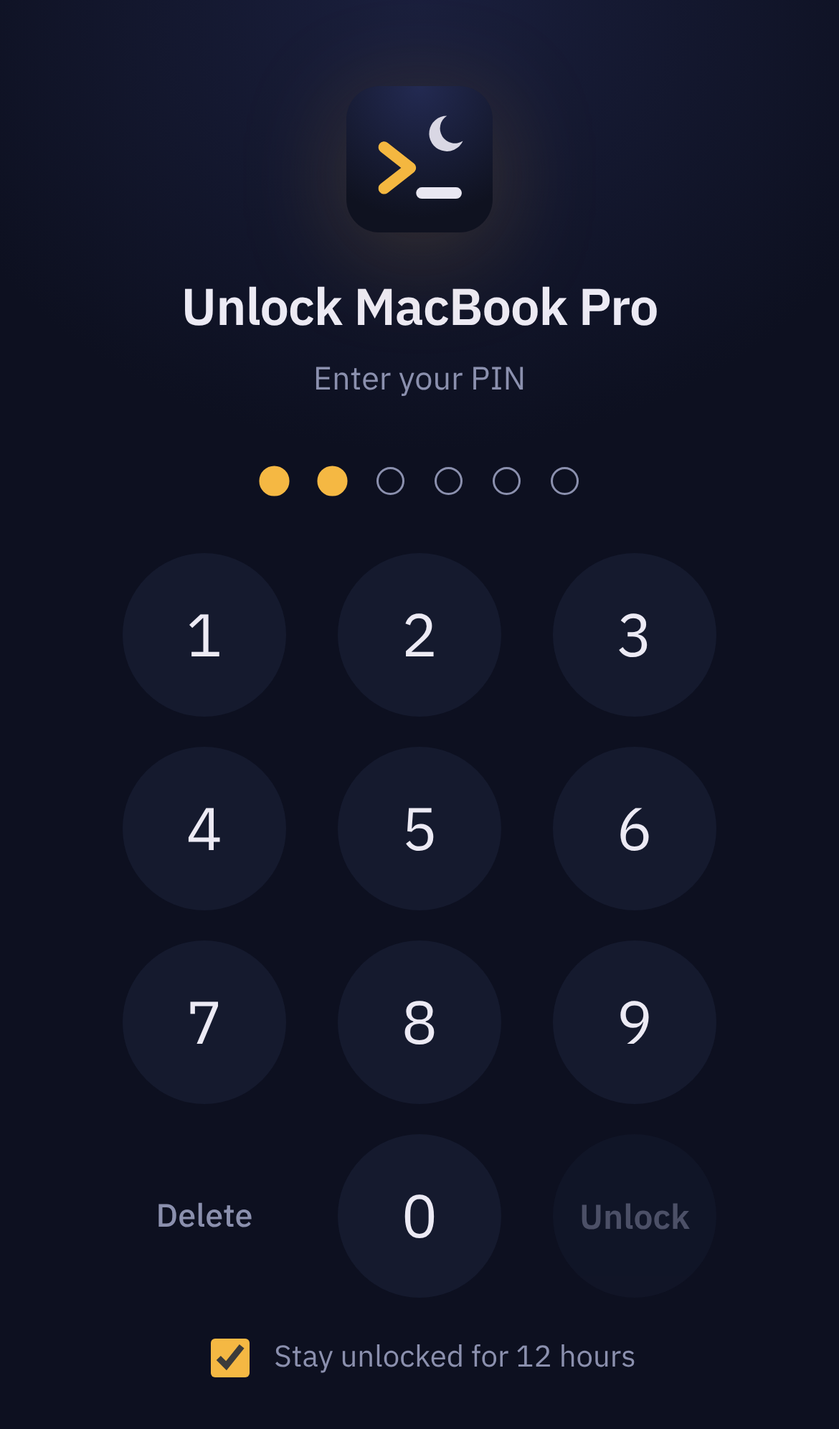
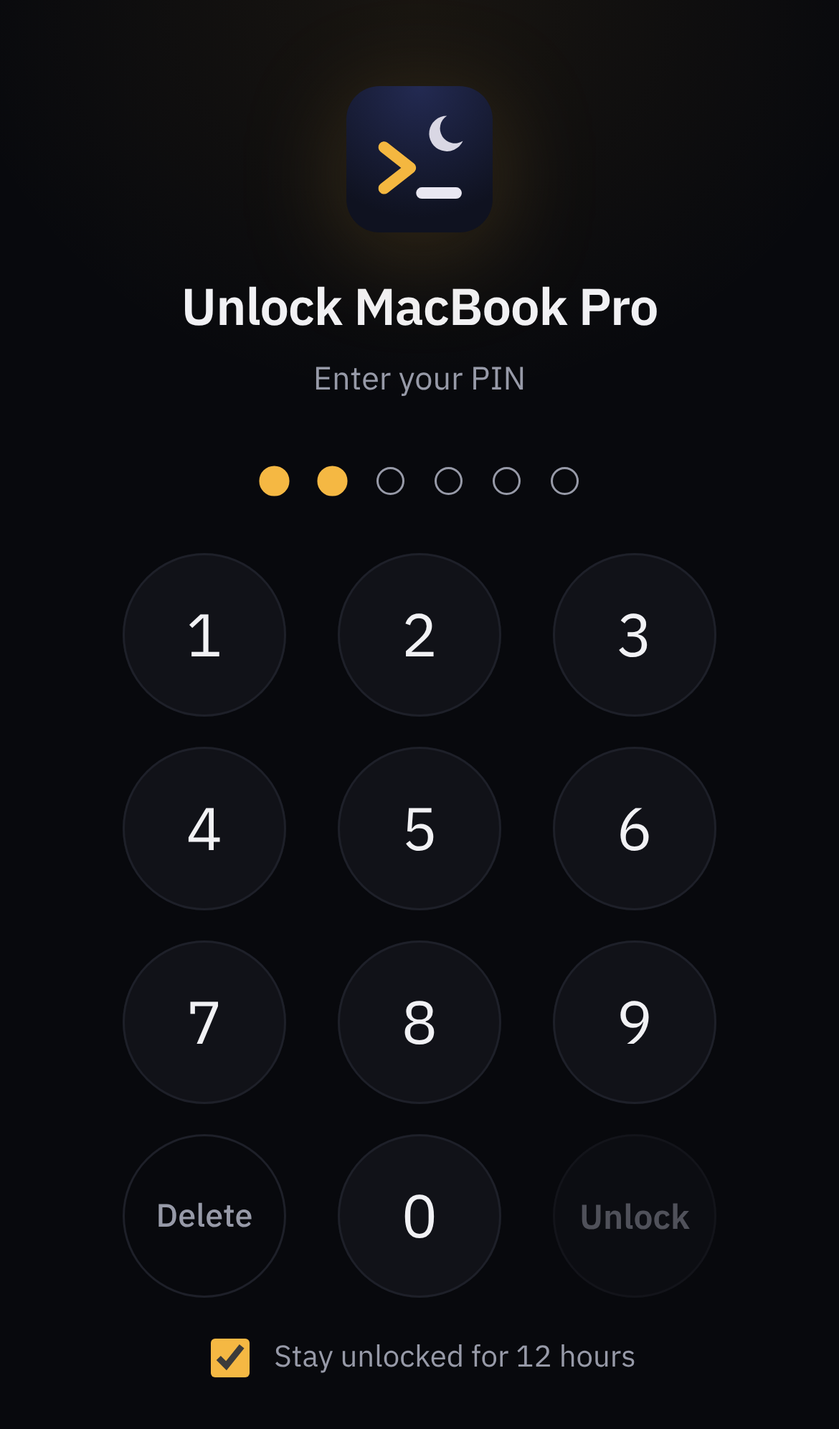
v6.1: trading-terminal look

Changed region(s): [[0.0, 0.0, 1.0, 0.249]]

diff --git a/docs/css/app.css b/docs/css/app.css
@@ -8,19 +8,20 @@
 @font-face { font-family: 'JB Mono'; src: url('../fonts/jetbrains-mono-latin-700-normal.woff2') format('woff2'); font-weight: 700; font-display: swap; }
 
 :root {
-  --night: #0D1020;      /* app */
-  --well: #080A14;       /* terminal */
-  --raised: #151A2E;     /* menus, cards */
-  --raised-2: #1C2238;   /* pressed, inputs on cards */
-  --line: #232842;
-  --text: #ECEAF4;       /* moonlight */
-  --muted: #8B90AE;      /* dusk */
-  --faint: #5C6185;
-  --lamp: #F5B843;       /* awake */
-  --lamp-ink: #2A1E03;
-  --lamp-glow: rgba(245, 184, 67, .22);
-  --mint: #58D6A4;
-  --coral: #FF7B7B;
+  --night: #08090D;      /* canvas */
+  --well: #0C0D12;       /* terminal panel */
+  --raised: #111218;     /* cards, menus */
+  --raised-2: #181A21;   /* pressed, inputs */
+  --line: #1E2029;       /* hairline */
+  --line-strong: #2A2D38;
+  --text: #F1F1F4;
+  --muted: #979AA8;
+  --faint: #5D6070;
+  --lamp: #F5B843;       /* awake: the app's one warm colour */
+  --lamp-ink: #241A03;
+  --lamp-glow: rgba(245, 184, 67, .18);
+  --mint: #3DD68C;       /* up / ok */
+  --coral: #FF5C5C;      /* down / failed */
   --sans: 'Plex', -apple-system, BlinkMacSystemFont, 'Segoe UI', sans-serif;
   --mono: 'JB Mono', ui-monospace, 'SF Mono', Menlo, Consolas, monospace;
   --safe-b: env(safe-area-inset-bottom);
@@ -37,7 +38,7 @@ code { font-family: var(--mono); font-size: .9em; }
 /* ---------- buttons and inputs ---------- */
 .btn { border-radius: 12px; padding: 11px 16px; font-weight: 600; font-size: 15px; background: var(--lamp); color: var(--lamp-ink); transition: transform .08s, filter .15s; }
 .btn:active { transform: scale(.97); filter: brightness(.95); }
-.btn.ghost { background: var(--raised-2); color: var(--text); font-weight: 500; }
+.btn.ghost { background: var(--raised-2); color: var(--text); font-weight: 500; box-shadow: inset 0 0 0 1px var(--line-strong); }
 .btn.small { padding: 7px 13px; font-size: 14px; border-radius: 10px; }
 .btn.danger { background: rgba(255, 123, 123, .14); color: var(--coral); }
 .btn:disabled { opacity: .5; }
@@ -51,7 +52,7 @@ select.field-in { appearance: none; -webkit-appearance: none; }
 
 /* ---------- gates: welcome, pair, unlock ---------- */
 .gate { position: fixed; inset: 0; overflow-y: auto; padding: calc(32px + env(safe-area-inset-top)) 24px calc(24px + var(--safe-b));
-  background: radial-gradient(90% 45% at 50% 0%, #1A1F3D 0%, var(--night) 70%); }
+  background: radial-gradient(80% 40% at 50% 0%, rgba(245, 184, 67, .07) 0%, transparent 70%), var(--night); }
 .gate-inner { max-width: 380px; margin: 0 auto; min-height: 100%; display: flex; flex-direction: column; align-items: center; text-align: center; }
 .mark { width: 68px; height: 68px; margin: 8px 0 20px; filter: drop-shadow(0 8px 24px rgba(245, 184, 67, .18)); }
 .gate h1 { font: 600 24px/1.2 var(--sans); margin: 0 0 8px; letter-spacing: -.015em; }
@@ -65,7 +66,7 @@ select.field-in { appearance: none; -webkit-appearance: none; }
 .dots.shake { animation: shake .32s; }
 @keyframes shake { 25% { transform: translateX(-8px); } 50% { transform: translateX(8px); } 75% { transform: translateX(-4px); } }
 .pad { display: grid; grid-template-columns: repeat(3, 76px); gap: 14px 24px; justify-content: center; }
-.pad button { width: 76px; height: 76px; border-radius: 50%; background: var(--raised); font: 400 28px var(--sans); transition: background .1s; }
+.pad button { width: 76px; height: 76px; border-radius: 50%; background: var(--raised); box-shadow: inset 0 0 0 1px var(--line); font: 400 28px var(--sans); transition: background .1s; }
 .pad button:active { background: var(--raised-2); }
 .pad button.fn { background: none; font: 500 15px var(--sans); color: var(--muted); }
 .pad button.go { background: var(--lamp); color: var(--lamp-ink); font: 600 16px var(--sans); }
@@ -85,15 +86,18 @@ select.field-in { appearance: none; -webkit-appearance: none; }
 .iosnote .row2 .btn { flex: 1; }
 .join { margin: 30px 0 8px; display: flex; flex-direction: column; align-items: center; gap: 10px; }
 .join small { color: var(--muted); font-size: 13px; }
-.jcode { font: 600 42px/1 var(--mono); letter-spacing: .05em; color: var(--lamp); padding: 20px 28px; border-radius: 20px; background: var(--raised); box-shadow: 0 0 0 1px var(--line), 0 16px 40px rgba(245, 184, 67, .08); }
+.jcode { font: 600 42px/1 var(--mono); letter-spacing: .05em; color: var(--lamp); padding: 20px 28px; border-radius: 16px; background: var(--raised); box-shadow: 0 0 0 1px var(--line-strong), 0 16px 40px rgba(245, 184, 67, .07); }
 .wait { display: flex; gap: 6px; margin-top: 12px; }
 .wait span, .thinking span { width: 7px; height: 7px; border-radius: 50%; background: var(--muted); animation: blink 1s infinite ease-in-out; }
 .wait span:nth-child(2), .thinking span:nth-child(2) { animation-delay: .15s; } .wait span:nth-child(3), .thinking span:nth-child(3) { animation-delay: .3s; }
 @keyframes blink { 50% { opacity: .2; transform: translateY(-3px); } }
 
 /* ---------- the app ---------- */
-#app { position: fixed; left: 0; right: 0; top: 0; height: 100%; display: flex; flex-direction: column; padding-top: env(safe-area-inset-top); background: var(--well); }
-.bar { flex: none; display: flex; align-items: center; gap: 10px; padding: 8px 8px 8px 16px; background: var(--night); }
+#app { position: fixed; left: 0; right: 0; top: 0; height: 100%; display: flex; flex-direction: column; padding-top: env(safe-area-inset-top); background: var(--night); }
+.bar { flex: none; display: flex; align-items: center; gap: 10px; padding: 8px 6px 8px 16px; }
+.ticks { display: flex; gap: 6px; flex: none; }
+.tick { font: 500 12px/1 var(--mono); padding: 6px 7px; border-radius: 7px; background: var(--raised); box-shadow: inset 0 0 0 1px var(--line); color: var(--muted); font-variant-numeric: tabular-nums; }
+.tick.good { color: var(--mint); } .tick.ok { color: var(--lamp); } .tick.slow { color: var(--coral); }
 .presence { position: relative; width: 10px; height: 10px; flex: none; }
 .presence i { position: absolute; inset: 0; border-radius: 50%; background: var(--faint); transition: background .3s, box-shadow .3s; }
 .presence.awake i { background: var(--lamp); box-shadow: 0 0 0 4px var(--lamp-glow), 0 0 14px var(--lamp); }
@@ -104,7 +108,7 @@ select.field-in { appearance: none; -webkit-appearance: none; }
 .who { flex: 1; min-width: 0; display: flex; flex-direction: column; }
 .who b { font: 600 16px/1.2 var(--sans); white-space: nowrap; overflow: hidden; text-overflow: ellipsis; letter-spacing: -.01em; }
 .who span { color: var(--muted); font-size: 13px; white-space: nowrap; overflow: hidden; text-overflow: ellipsis; font-variant-numeric: tabular-nums; }
-.batt { flex: none; font: 500 13px var(--sans); color: var(--muted); font-variant-numeric: tabular-nums; padding: 0 4px; }
+
 .batt.low { color: var(--coral); }
 .batt.charging { color: var(--lamp); }
 .iconbtn { position: relative; width: 40px; height: 40px; border-radius: 12px; display: grid; place-items: center; flex: none; }
@@ -114,21 +118,21 @@ select.field-in { appearance: none; -webkit-appearance: none; }
 .badge { position: absolute; top: 3px; right: 2px; min-width: 17px; height: 17px; padding: 0 5px; border-radius: 9px; background: var(--lamp); color: var(--lamp-ink); font: 600 11px/17px var(--sans); }
 .badge:empty { display: none; }
 
-/* the lamp line */
-.lamp { flex: none; position: relative; height: 2px; background: var(--line); }
+/* the lamp line: the top edge of the terminal panel */
+.lamp { position: absolute; left: 0; right: 0; top: 0; height: 2px; background: var(--line-strong); z-index: 3; }
 .lamp i { position: absolute; left: 0; top: 0; bottom: 0; width: 100%; transform-origin: left; transform: scaleX(0); background: var(--lamp); transition: transform .9s linear, opacity .3s; }
-.lamp::after { content: ''; position: absolute; left: 0; right: 0; top: 2px; height: 28px; background: linear-gradient(var(--lamp-glow), transparent); opacity: 0; transition: opacity .6s; pointer-events: none; z-index: 2; }
+.lamp::after { content: ''; position: absolute; left: 0; right: 0; top: 2px; height: 34px; background: linear-gradient(var(--lamp-glow), transparent); opacity: 0; transition: opacity .6s; pointer-events: none; z-index: 2; }
 #app.awake .lamp::after { opacity: 1; }
 #app.asleep .lamp i { background: var(--muted); }
 #app.connecting .lamp i { animation: scan 1.4s ease-in-out infinite; transform: scaleX(.3); transition: none; }
 @keyframes scan { 0% { left: -30%; } 100% { left: 100%; } }
 
-#term { flex: 1; min-height: 0; overflow: hidden; padding: 10px 6px 0 12px; position: relative; background: var(--well); touch-action: none; }
+#term { flex: 1; min-height: 0; overflow: hidden; margin: 0 8px; padding: 14px 6px 0 12px; position: relative; background: var(--well); border-radius: 14px; box-shadow: inset 0 0 0 1px var(--line); touch-action: none; }
 #term .xterm-viewport { background: transparent !important; }
 
 /* state strip at the top of the terminal: asleep / waiting / offline */
-.card-state { position: absolute; left: 8px; right: 8px; top: 8px; z-index: 5; padding: 12px 12px 12px 14px; border-radius: 16px;
-  background: rgba(21, 26, 46, .97); box-shadow: 0 0 0 1px var(--line), 0 14px 34px rgba(0, 0, 0, .45); }
+.card-state { position: absolute; left: 8px; right: 8px; top: 10px; z-index: 5; padding: 12px 12px 12px 14px; border-radius: 12px;
+  background: rgba(17, 18, 24, .97); box-shadow: 0 0 0 1px var(--line-strong), 0 14px 34px rgba(0, 0, 0, .55); }
 .card-state h2 { margin: 0; font: 600 15px/1.3 var(--sans); }
 .card-state p { margin: 2px 0 0; color: var(--muted); font-size: 13px; }
 .card-state form { display: flex; gap: 8px; margin-top: 10px; }
@@ -138,20 +142,20 @@ select.field-in { appearance: none; -webkit-appearance: none; }
 .card-state .row:empty { display: none; }
 
 /* saved commands popover (⚡ key) */
-.quick { flex: none; background: var(--night); padding: 10px 10px 4px; box-shadow: 0 -1px 0 var(--line); }
+.quick { flex: none; padding: 10px 8px 2px; }
 .chips { display: flex; flex-wrap: wrap; gap: 8px; max-height: 120px; overflow-y: auto; }
-.chip { padding: 8px 13px; border-radius: 999px; background: var(--raised); font-size: 14px; white-space: nowrap; }
+.chip { padding: 8px 13px; border-radius: 9px; background: var(--raised); box-shadow: inset 0 0 0 1px var(--line); font-size: 14px; white-space: nowrap; }
 .chip:active { background: var(--raised-2); }
 .chip.ask { color: var(--lamp); }
 .chip.add { color: var(--muted); box-shadow: inset 0 0 0 1px var(--line); background: none; }
 
 /* one key bar, docked on the keyboard */
-.keys { flex: none; display: flex; gap: 6px; overflow-x: auto; padding: 8px 8px calc(8px + var(--safe-b)); background: var(--night); scrollbar-width: none; touch-action: pan-x; }
+.keys { flex: none; display: flex; gap: 6px; overflow-x: auto; padding: 8px 8px calc(8px + var(--safe-b)); scrollbar-width: none; touch-action: pan-x; }
 #app.kb .keys { padding-bottom: 6px; }
 .keys::-webkit-scrollbar, .chips::-webkit-scrollbar { display: none; }
-.keys button { flex: none; min-width: 42px; height: 38px; padding: 0 10px; border-radius: 9px; background: var(--raised); font: 500 14px var(--mono); color: var(--text);
-  box-shadow: inset 0 -1px 0 rgba(0, 0, 0, .35); touch-action: manipulation; }
-.keys button:active { background: var(--raised-2); }
+.keys button { flex: none; min-width: 42px; height: 38px; padding: 0 10px; border-radius: 8px; background: linear-gradient(#17181E, #0F1015); font: 500 14px var(--mono); color: var(--text);
+  box-shadow: inset 0 0 0 1px var(--line), inset 0 1px 0 rgba(255, 255, 255, .04), 0 1px 0 rgba(0, 0, 0, .6); touch-action: manipulation; }
+.keys button:active { background: var(--raised-2); transform: translateY(1px); }
 .keys button.on { background: var(--lamp); color: var(--lamp-ink); }
 .keys .kq { display: grid; place-items: center; }
 .keys .kq svg { width: 18px; height: 18px; stroke: var(--lamp); }
@@ -161,7 +165,7 @@ select.field-in { appearance: none; -webkit-appearance: none; }
 .sheet { position: fixed; inset: 0; background: rgba(4, 6, 14, .62); display: none; z-index: 10; }
 .sheet.show { display: flex; align-items: flex-end; }
 .panel { width: 100%; height: calc(100% - 44px - env(safe-area-inset-top)); display: flex; flex-direction: column; background: var(--night);
-  border-radius: 22px 22px 0 0; padding: 0 16px calc(16px + var(--safe-b)); animation: rise .22s cubic-bezier(.2, .8, .2, 1); box-shadow: 0 -1px 0 var(--line); }
+  border-radius: 20px 20px 0 0; padding: 0 16px calc(16px + var(--safe-b)); animation: rise .22s cubic-bezier(.2, .8, .2, 1); box-shadow: 0 -1px 0 var(--line-strong); }
 @keyframes rise { from { transform: translateY(40px); opacity: .5; } }
 .sheethead { flex: none; display: grid; grid-template-columns: 1fr auto 1fr; align-items: center; height: 54px; margin: 0 -4px; }
 .sheethead h2 { margin: 0; font: 600 17px var(--sans); text-align: center; }
@@ -170,7 +174,7 @@ select.field-in { appearance: none; -webkit-appearance: none; }
 .sheethead .done { justify-self: end; color: var(--lamp); font-weight: 600; padding: 8px 4px; }
 .sheet.home .back { visibility: hidden; }
 .menu { overflow-y: auto; padding-top: 4px; }
-.group { background: var(--raised); border-radius: 16px; overflow: hidden; margin-bottom: 16px; }
+.group { background: var(--raised); border-radius: 14px; overflow: hidden; margin-bottom: 16px; box-shadow: inset 0 0 0 1px var(--line); }
 .group button { width: 100%; display: flex; align-items: center; gap: 14px; padding: 14px 16px; text-align: left; position: relative; }
 .group button + button::before { content: ''; position: absolute; top: 0; left: 52px; right: 0; height: 1px; background: var(--line); }
 .group button:active { background: var(--raised-2); }
@@ -184,14 +188,25 @@ select.field-in { appearance: none; -webkit-appearance: none; }
 .pane { display: none; overflow-y: auto; min-height: 0; padding-top: 4px; } .pane.on { display: block; }
 .hint { margin: 0 0 12px; color: var(--muted); font-size: 14px; }
 .list { margin-top: 12px; display: flex; flex-direction: column; gap: 10px; }
-.item { background: var(--raised); border-radius: 16px; padding: 14px; }
+.item { background: var(--raised); border-radius: 12px; padding: 14px; box-shadow: inset 0 0 0 1px var(--line); }
+/* command history: a trade log */
+.job .top { align-items: center; }
+.sdot { flex: none; width: 8px; height: 8px; border-radius: 50%; background: var(--faint); }
+.s-ok .sdot { background: var(--mint); box-shadow: 0 0 8px rgba(61, 214, 140, .5); }
+.s-fail .sdot { background: var(--coral); box-shadow: 0 0 8px rgba(255, 92, 92, .5); }
+.s-run .sdot { background: var(--lamp); animation: pulse 1.2s ease-in-out infinite; }
+.job details { margin-top: 10px; }
+.job summary { color: var(--muted); font-size: 13px; cursor: pointer; list-style: none; }
+.job summary::-webkit-details-marker { display: none; }
+.job summary::before { content: '›'; display: inline-block; width: 14px; transition: transform .15s; }
+.job details[open] summary::before { transform: rotate(90deg); }
 .item .top { display: flex; gap: 10px; align-items: flex-start; }
 .item code { flex: 1; min-width: 0; font-size: 14px; overflow-wrap: anywhere; }
 .tag { flex: none; font-size: 12px; font-weight: 500; padding: 3px 9px; border-radius: 999px; background: var(--raised-2); color: var(--muted); }
 .tag.done { color: var(--mint); background: rgba(88, 214, 164, .12); }
 .tag.fail { color: var(--coral); background: rgba(255, 123, 123, .12); }
 .tag.running, .tag.warn { color: var(--lamp); background: var(--lamp-glow); }
-.item pre { margin: 12px 0 0; max-height: 320px; overflow: auto; background: var(--well); padding: 12px; border-radius: 12px; font: 13px/1.5 var(--mono); white-space: pre-wrap; overflow-wrap: anywhere; }
+.item pre { margin: 8px 0 0; box-shadow: inset 0 0 0 1px var(--line); max-height: 320px; overflow: auto; background: var(--well); padding: 12px; border-radius: 12px; font: 13px/1.5 var(--mono); white-space: pre-wrap; overflow-wrap: anywhere; }
 .meta { margin-top: 10px; color: var(--muted); font-size: 12px; display: flex; justify-content: space-between; align-items: center; gap: 8px; }
 .x { color: var(--muted); font-size: 13px; padding: 4px 0; }
 .fixit { color: var(--lamp); margin-right: 14px; font-weight: 500; }
@@ -201,17 +216,17 @@ select.field-in { appearance: none; -webkit-appearance: none; }
 .snip .run b { display: block; font-weight: 500; font-size: 15px; }
 .snip .run code { color: var(--muted); font-size: 13px; white-space: nowrap; overflow: hidden; text-overflow: ellipsis; display: block; }
 .stat { display: grid; grid-template-columns: repeat(3, 1fr); gap: 8px; margin-bottom: 14px; }
-.stat div { background: var(--raised); border-radius: 14px; padding: 12px; }
-.stat small { display: block; color: var(--muted); font-size: 12px; }
-.stat span { font: 600 18px var(--sans); font-variant-numeric: tabular-nums; }
+.stat div { background: var(--raised); border-radius: 12px; padding: 12px; box-shadow: inset 0 0 0 1px var(--line); }
+.stat small { display: block; color: var(--muted); font-size: 12px; margin-bottom: 4px; }
+.stat span { font: 600 20px var(--mono); font-variant-numeric: tabular-nums; letter-spacing: -.02em; }
 .field { display: flex; justify-content: space-between; align-items: center; gap: 12px; padding: 14px 0; border-top: 1px solid var(--line); font-size: 15px; }
 .field small { display: block; color: var(--muted); font-size: 13px; margin-top: 2px; overflow-wrap: anywhere; }
 .field code { font-size: 12px; color: var(--text); }
-.seg { display: flex; background: var(--raised); border-radius: 10px; padding: 3px; flex: none; }
+.seg { display: flex; background: var(--raised); border-radius: 10px; padding: 3px; flex: none; box-shadow: inset 0 0 0 1px var(--line); }
 .seg button { padding: 6px 10px; border-radius: 8px; font-size: 13px; color: var(--muted); }
 .seg button.on { background: var(--lamp); color: var(--lamp-ink); font-weight: 600; }
 .note { font-size: 13px; color: var(--lamp); min-height: 16px; margin-top: 6px; }
-.toast { position: fixed; left: 50%; top: calc(64px + env(safe-area-inset-top)); transform: translateX(-50%); background: var(--raised-2); padding: 10px 16px; border-radius: 14px; font-size: 14px; z-index: 40; display: none; max-width: 90%; text-align: center; box-shadow: 0 0 0 1px var(--line), 0 12px 30px rgba(0, 0, 0, .45); }
+.toast { position: fixed; left: 50%; top: calc(64px + env(safe-area-inset-top)); transform: translateX(-50%); background: var(--raised-2); padding: 10px 16px; border-radius: 12px; font-size: 14px; z-index: 40; display: none; max-width: 90%; text-align: center; box-shadow: 0 0 0 1px var(--line), 0 12px 30px rgba(0, 0, 0, .45); }
 
 /* Ask */
 .sub { margin: 20px 0 -2px; color: var(--muted); font-size: 13px; font-weight: 500; }

diff --git a/docs/js/app.js b/docs/js/app.js
@@ -9,7 +9,7 @@ import { Board, MAX_NOTE } from './board.js';
 import { search, riskOf, needsFill, askAi, PROVIDERS } from './helper.js';
 
 const $ = (id) => document.getElementById(id);
-const APP_VERSION = '6.0';
+const APP_VERSION = '6.1';
 const DEFAULT_BOARDS = ['https://ntfy.sh'];
 const ICE = [{ urls: ['stun:stun.l.google.com:19302', 'stun:stun.cloudflare.com:3478'] }];
 const store = {
@@ -244,7 +244,12 @@ function lockFlow(vault) {
 
 // ---------- main ----------
 let S, keys, board, term, fit;
-let lastPong = 0;
+let lastPong = 0, pingSent = 0, rtt = null;
+function paintPing() {
+  const el = $('ping'); const on = dc && dc.readyState === 'open' && rtt !== null;
+  el.hidden = !on; if (on) { el.textContent = `${rtt} ms`; el.className = 'tick ' + (rtt < 120 ? 'good' : rtt < 400 ? 'ok' : 'slow'); }
+}
+setInterval(() => { if (dc && dc.readyState === 'open' && document.visibilityState === 'visible') { pingSent = performance.now(); sendTerm({ t: 'ping' }); } else { rtt = null; paintPing(); } }, 5000);
 let pc = null, dc = null, linkState = 'idle', lastAttempt = 0, offerAt = 0, answerTimer = null, openTimer = null;
 const seen = new Set();
 const mac = { state: null, ts: 0, nextWake: null, checkIn: null, power: null, name: '' };
@@ -380,7 +385,7 @@ function wire(ch) {
     if (m.t === 'o') term.write(m.d);
     else if (m.t === 'reset') { term.reset(); if (m.d) term.write(m.d); }
     else if (m.t === 'power') { livePower = m; paint(); }
-    else if (m.t === 'pong') lastPong = Date.now();
+    else if (m.t === 'pong') { lastPong = Date.now(); if (pingSent) { rtt = Math.round(performance.now() - pingSent); pingSent = 0; paintPing(); } }
     else if (m.t === 'hi') { if (m.os) setOs(m.os); }
     else if (m.t === 'revoked') revoked();
     else if (m.t === 'result') gotResult(m.id, m.code, m.out);
@@ -414,7 +419,7 @@ function paint() {
   let look = 'off', ring = 0, status = '', banner = null;
   const queued = jobs.filter((j) => j.status === 'waiting').length;
   const queuedText = queued ? ` ${queued} command${queued > 1 ? 's' : ''} will run then.` : '';
-  if (linkState === 'direct') { look = 'awake'; ring = 1; status = 'Awake · direct, encrypted'; }
+  if (linkState === 'direct') { look = 'awake'; ring = 1; status = 'Live · encrypted'; }
   else if (linkState === 'connecting' && !(mac.state === 'sleeping' && nci)) { look = 'connecting'; ring = 0.25; status = 'Connecting…'; }
   else if (linkState === 'noboard' || board.up.size === 0) {
     status = 'Offline';
@@ -447,7 +452,7 @@ function paint() {
   } else $('banner').hidden = true;
   if (p && p.percent != null) {
     $('batt').hidden = false; $('batt').textContent = `${p.onCharger ? '⚡' : ''}${p.percent}%`;
-    $('batt').className = 'batt' + (p.onCharger ? ' charging' : p.percent < 20 ? ' low' : '');
+    $('batt').className = 'batt tick' + (p.onCharger ? ' charging' : p.percent < 20 ? ' low' : '');
   }
   $('connInfo').textContent = linkState === 'direct' ? 'Direct and end-to-end encrypted' : linkState === 'backup' ? 'Backup route: encrypted notes through the message board' : 'Not connected right now';
   paintPower(p, nci);
@@ -558,13 +563,17 @@ function gotResult(cid, code, out) {
 }
 function renderJobs() {
   $('qn').textContent = $('qn2').textContent = jobs.filter((j) => j.status === 'waiting' || j.status === 'running').length || '';
-  $('jobs').innerHTML = jobs.length ? jobs.map((j) => {
+  $('jobs').innerHTML = jobs.length ? jobs.map((j, i) => {
     const tag = j.status === 'done' ? (j.code === 0 ? '<span class="tag done">done</span>' : `<span class="tag fail">exit ${esc(j.code)}</span>`)
       : j.status === 'running' ? '<span class="tag running">running</span>' : j.status === 'error' ? '<span class="tag fail">not sent</span>' : '<span class="tag">waiting for computer</span>';
-    const out = j.status === 'done' || j.status === 'error' ? `<pre>${esc(j.out) || '(no output)'}</pre>` : '';
+    const lines = String(j.out || '').split('\n').filter(Boolean).length;
+    // newest result open; older ones fold to one line, like a trade history
+    const out = j.status === 'done' || j.status === 'error'
+      ? `<details${i === 0 ? ' open' : ''}><summary>Output · ${lines} line${lines === 1 ? '' : 's'}</summary><pre>${esc(j.out) || '(no output)'}</pre></details>` : '';
+    const st = j.status === 'done' ? (j.code === 0 ? 'ok' : 'fail') : j.status === 'running' ? 'run' : j.status === 'error' ? 'fail' : 'wait';
     const fix = j.status === 'done' && j.code !== 0 ? `<button class="x fixit" data-fix="${esc(j.cid)}">✦ Fix with AI</button>` : '';
-    return `<div class="item"><div class="top"><code>${esc(j.cmd)}</code>${tag}</div>${out}<div class="meta"><span>sent ${ago(j.created)}${j.finished ? ' · finished ' + ago(j.finished) : ''}</span><span>${fix}<button class="x" data-del="${esc(j.cid)}">remove</button></span></div></div>`;
-  }).join('') : '<div class="empty">No commands yet. Type one above and tap Run.</div>';
+    return `<div class="item job s-${st}"><div class="top"><i class="sdot"></i><code>${esc(j.cmd)}</code>${tag}</div>${out}<div class="meta"><span>sent ${ago(j.created)}${j.finished ? ' · finished ' + ago(j.finished) : ''}</span><span>${fix}<button class="x" data-del="${esc(j.cid)}">remove</button></span></div></div>`;
+  }).join('') : '<div class="empty">Nothing sent yet. Type a command above and tap Run.</div>';
 }
 
 // ---------- snippets (stored on this phone) ----------

diff --git a/docs/index.html b/docs/index.html
@@ -93,13 +93,13 @@
   <header class="bar">
     <div class="presence off" id="presence" aria-hidden="true"><i></i></div>
     <div class="who"><b id="macName">Your computer</b><span id="status">Connecting…</span></div>
-    <span class="batt" id="batt" hidden></span>
+    <div class="ticks"><span class="tick" id="ping" hidden></span><span class="batt tick" id="batt" hidden></span></div>
     <button class="iconbtn ask" id="askBtn" aria-label="Ask AI for a command"><svg viewBox="0 0 24 24" fill="none" stroke-width="1.8" stroke-linecap="round" stroke-linejoin="round"><path d="M12 3l1.8 4.7L18.5 9.5l-4.7 1.8L12 16l-1.8-4.7L5.5 9.5l4.7-1.8z"/><path d="M19 15l.8 2.2L22 18l-2.2.8L19 21l-.8-2.2L16 18l2.2-.8z"/></svg></button>
     <button class="iconbtn" id="menuBtn" aria-label="Menu"><svg viewBox="0 0 24 24" fill="none" stroke-width="1.8" stroke-linecap="round" stroke-linejoin="round"><circle cx="5" cy="12" r="1.3"/><circle cx="12" cy="12" r="1.3"/><circle cx="19" cy="12" r="1.3"/></svg><span class="badge" id="qn"></span></button>
   </header>
 
-  <div class="lamp" aria-hidden="true"><i id="arc"></i></div>
   <div id="term">
+    <div class="lamp" aria-hidden="true"><i id="arc"></i></div>
     <div class="card-state" id="banner" hidden>
       <div class="cs-text"><h2 id="bannerTitle"></h2><p id="bannerText"></p></div>
       <form id="bannerForm">

diff --git a/docs/sw.js b/docs/sw.js
@@ -1,6 +1,6 @@
 // Offline cache for the app's own files, so it opens instantly from the home screen.
 // Bump VERSION on every release so phones pick up the new code.
-const VERSION = 'pt-v6.0.0';
+const VERSION = 'pt-v6.1.0';
 const FILES = ['./', 'index.html', 'js/app.js', 'js/crypto.js', 'js/board.js', 'js/helper.js', 'vendor/xterm.js', 'vendor/xterm.css', 'vendor/addon-fit.js', 'vendor/jsQR.js', 'manifest.json', 'icon.svg', 'icon.png', 'css/app.css', 'fonts/ibm-plex-sans-latin-400-normal.woff2', 'fonts/ibm-plex-sans-latin-500-normal.woff2', 'fonts/ibm-plex-sans-latin-600-normal.woff2', 'fonts/jetbrains-mono-latin-400-normal.woff2', 'fonts/jetbrains-mono-latin-700-normal.woff2'];
 self.addEventListener('install', (e) => e.waitUntil(caches.open(VERSION).then((c) => c.addAll(FILES)).then(() => self.skipWaiting())));
 self.addEventListener('activate', (e) => e.waitUntil(caches.keys().then((ks) => Promise.all(ks.filter((k) => k !== VERSION).map((k) => caches.delete(k)))).then(() => self.clients.claim())));
